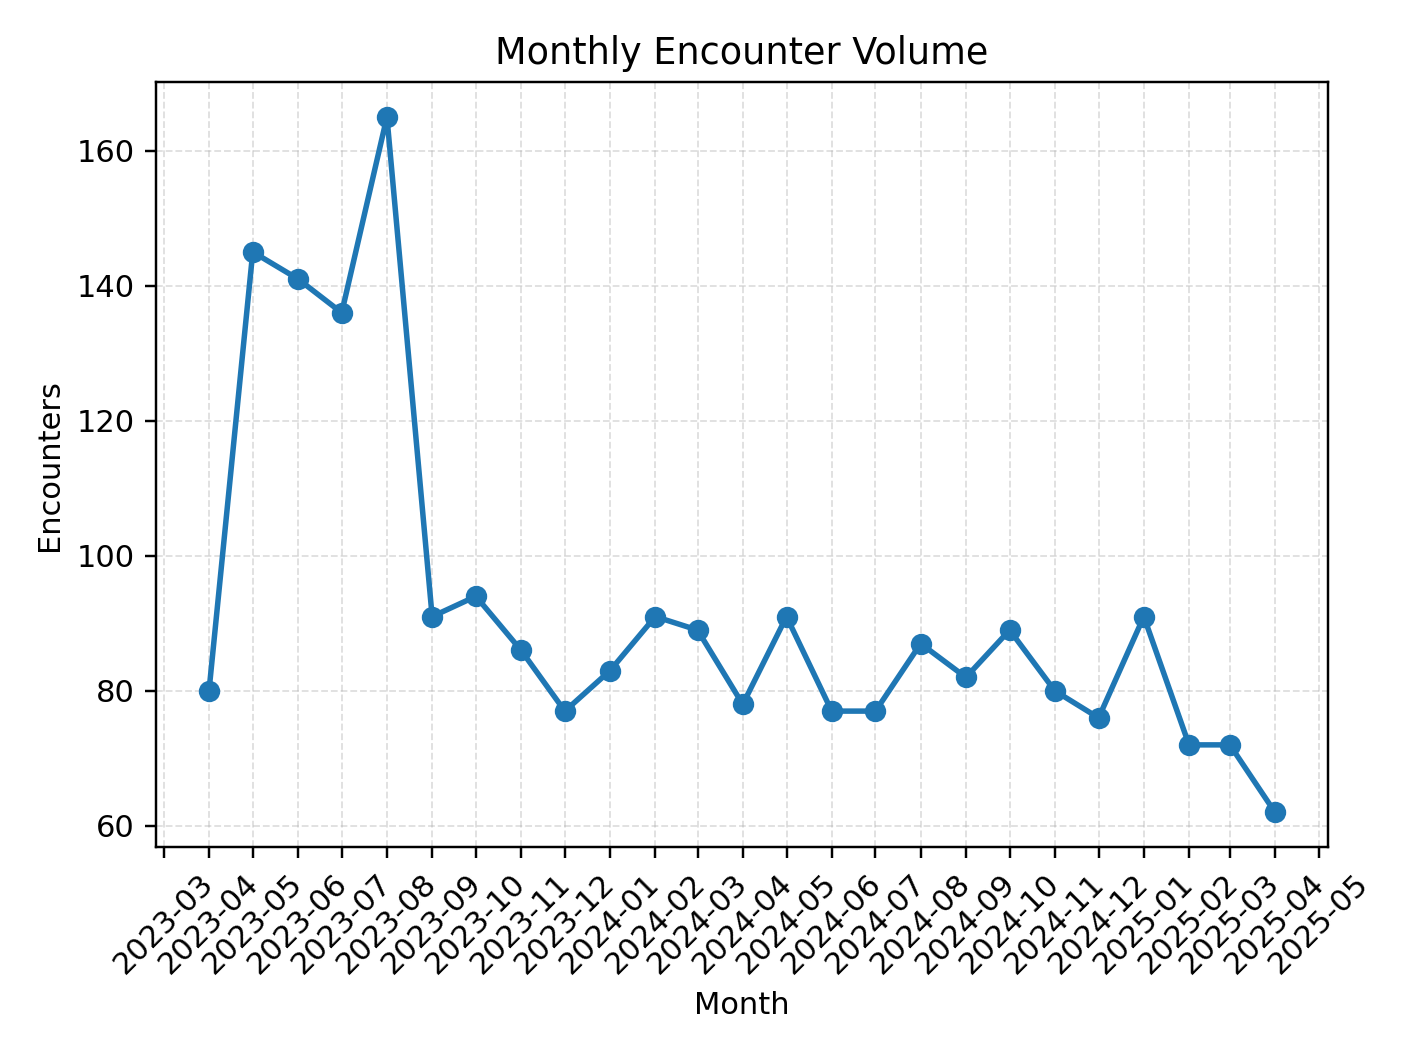
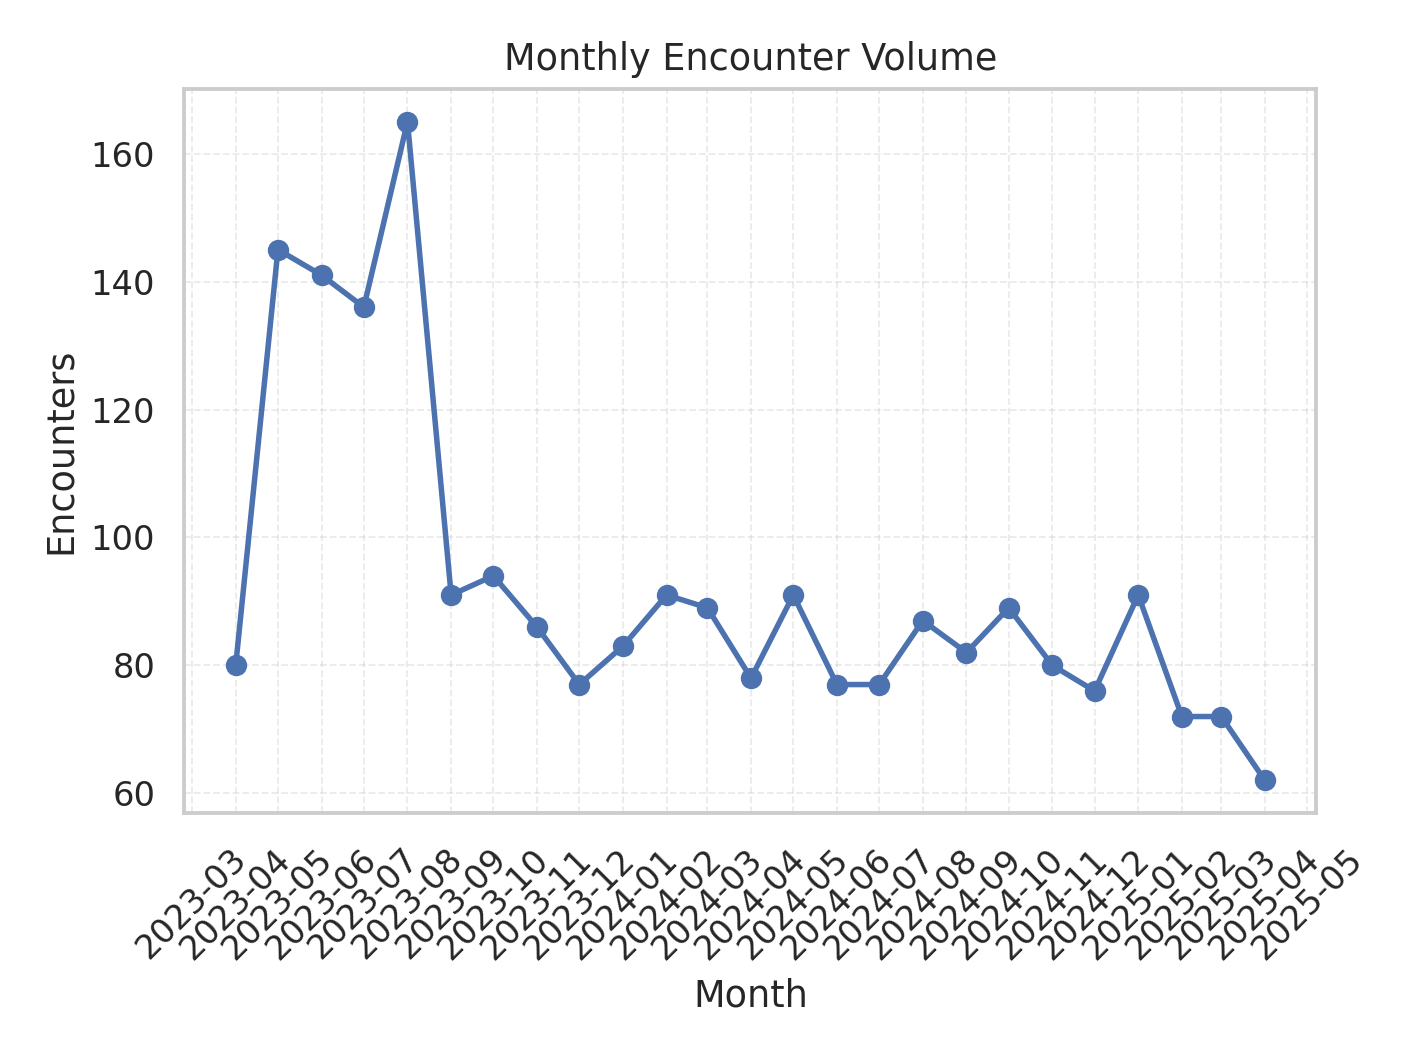
Styled plots

Changed region(s): [[0.0312, 0.0312, 0.9688, 0.9688]]

diff --git a/src/kpi_metrics.py b/src/kpi_metrics.py
@@ -7,6 +7,10 @@ from __future__ import annotations
 from pathlib import Path
 import pandas as pd
 import matplotlib.pyplot as plt
+import seaborn as sns
+
+# seaborn styling
+sns.set_theme(style="whitegrid")
 
 
 def compute_monthly_kpis(encounters_with_revenue: pd.DataFrame) -> pd.DataFrame:

diff --git a/README.md b/README.md
@@ -184,6 +184,7 @@ pip install -r requirements.txt
 - pandas
 - numpy
 - matplotlib
+- seaborn
 - Jupyter Notebook
 
 ---
